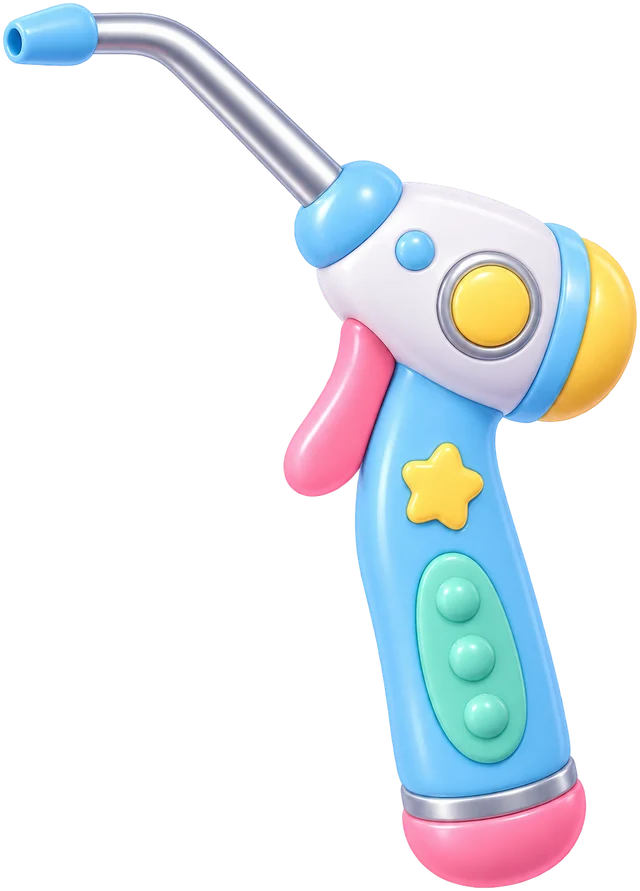
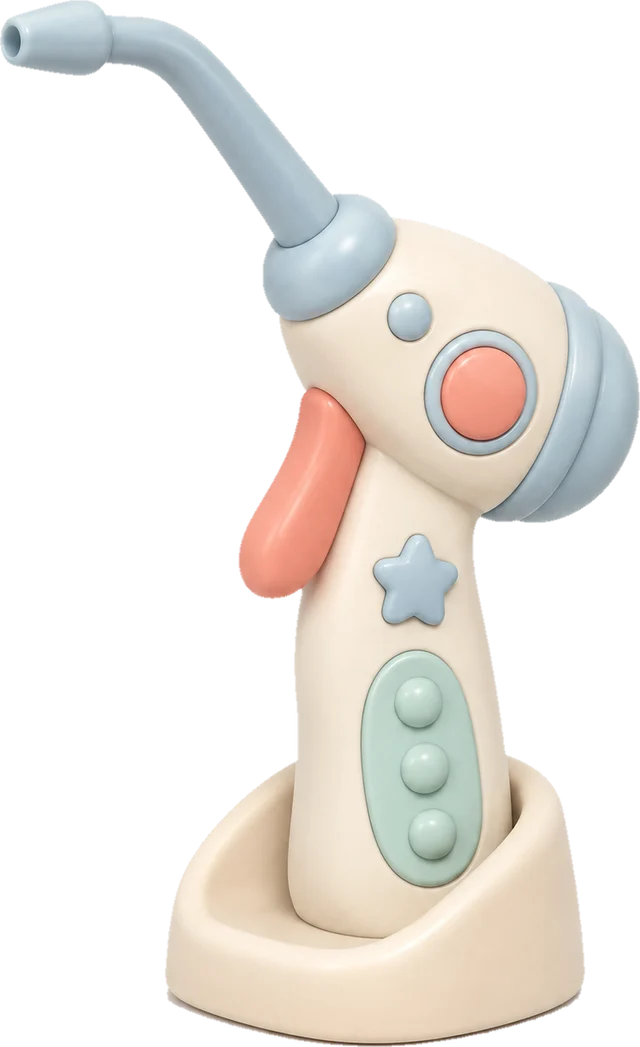
fix: the two instruments are rendered for this room, not borrowed from the board
They were the tools-board versions, and they read as stickers on a photograph:
candy teal and hot pink against a muted cream room, lit flat from the front
while everything behind them falls off softly from the upper left, and drawn
straight on where the room is three-quarter from above. Four different reasons
to look pasted on, only one of them colour.

These are drawn for the room — muted palette, matching light, matching camera —
and each stands in its own cream cradle, which is why nothing paints a fake
contact shadow any more. The shadow is in the render.

Two things the cut needed on the way in.

The flood that lifts a render off its background is tuned for a boy in a blue
chair and treats anything above luma 200 as background. These instruments are
cream on white; it walked straight through their bodies and left them
see-through. The floor is raised to just under pure white for them.

That then leaves their own drop shadow behind as a hard white ellipse — nothing
on the white it was drawn on, glaring the moment it stands on a coloured floor.
Brightness cannot separate a shadow from cream, since neither is darker, so
colour does: a shadow is neutral grey and cream is warm, and anything that close
to grey and that light is shadow. Both instruments come away clean.

The cut is now shared code rather than a copy — the visit walkthrough's importer
and this one had the same forty lines twice.

Claude-Session: https://claude.ai/code/session_01Yb1iwaE2br5ho53bb3AbtS

diff --git a/art-prompts/clinic-instruments.md b/art-prompts/clinic-instruments.md
@@ -1,0 +1,74 @@
+# Screen one — the suction and the air-water syringe, in the room's own light
+
+## Why the current ones look stuck on
+
+They were drawn for the tools board, where each instrument is a bright object on
+a flat card and is *meant* to pop. Standing them in a room breaks four things at
+once:
+
+1. **Too saturated.** The room is muted cream, mint and pale blue. The props are
+   candy teal, hot pink and primary yellow, and they are the loudest thing on
+   screen by a distance.
+2. **Lit from the front.** The room has one soft light from the upper left with
+   long gentle falloff. The props carry their own flat all-round studio light,
+   so nothing on them agrees with the shadows behind them.
+3. **Wrong camera.** The room is three-quarter from slightly above. The props
+   are drawn straight on, so they read as stickers on a photograph.
+4. **No base.** They are instruments with nothing holding them, which is why
+   they needed a fake contact shadow to look like they were resting at all.
+
+The fix is two new renders, not a filter and not a new room — each of the four
+objects on this screen has to stay its own transparent image so it can move
+when a child presses it.
+
+## Attach to both prompts
+
+- `app/public/art/clinic-room.webp` — **the** style reference. Palette, light
+  direction, camera height and finish all come from this.
+- the matching shape reference below, so it stays the same instrument the child
+  meets again on the tools board.
+
+Ask for a **plain flat white background**. I cut them out here.
+
+---
+
+## Prompt A — the suction
+
+*Attach: `clinic-room.webp` and `app/public/art/tool-suction.webp`*
+
+```
+A children's dental suction straw in a soft 3D clay-render style, resting upright in a small cream cradle holder. Match the attached room reference exactly for palette, lighting and camera: muted cream, pale blue and soft mint, a single soft light from the upper left with gentle falloff and a soft contact shadow beneath, matte clay surfaces, three-quarter view from slightly above.
+
+The instrument keeps the shape of the second reference — a slim handle with a gently curved tip and a soft collar — but rendered in the room's muted palette rather than bright toy colours: cream body, pale blue collar, one small soft accent. It sits in a low cream holder that its base rests inside, so it is clearly standing on something.
+
+Chunky, rounded and friendly. Nothing sharp, nothing metallic and clinical, nothing that reads as adult medical equipment.
+
+Plain flat white background. No text, no letters, no numbers, no labels, no watermarks.
+```
+
+## Prompt B — the air-water syringe
+
+*Attach: `clinic-room.webp` and `app/public/art/tool-syringe.webp`*
+
+```
+A children's dental air-water syringe in a soft 3D clay-render style, resting upright in a small cream cradle holder. Match the attached room reference exactly for palette, lighting and camera: muted cream, pale blue and soft mint, a single soft light from the upper left with gentle falloff and a soft contact shadow beneath, matte clay surfaces, three-quarter view from slightly above.
+
+The instrument keeps the shape of the second reference — a rounded body with a slim curved nozzle and a small button — but rendered in the room's muted palette rather than bright toy colours: cream body, pale blue nozzle, one small soft accent in coral. It sits in a low cream holder that its base rests inside, so it is clearly standing on something.
+
+Chunky, rounded and friendly. Nothing sharp, nothing metallic and clinical, nothing that reads as adult medical equipment.
+
+Plain flat white background. No text, no letters, no numbers, no labels, no watermarks.
+```
+
+---
+
+## The test before you send them
+
+Put the two results side by side with `clinic-room.webp` open next to them. If
+either one is the brightest thing on the screen, it is wrong — in that room
+nothing should out-shout the chair. They should look like they were rendered in
+the same afternoon as the room, not placed on top of it.
+
+Send them over and I re-run `scripts/place-clinic-tools.mjs`: it cuts them out,
+stands them on the unit and re-measures both tap boxes off the alpha. No code
+changes, and the built-in cradle means the fake contact shadow can go.
